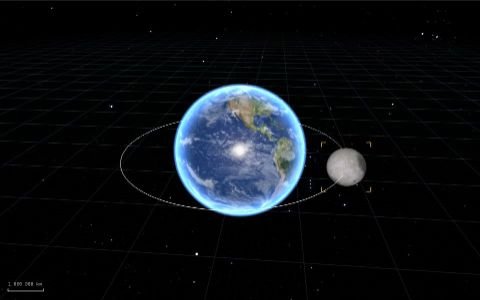
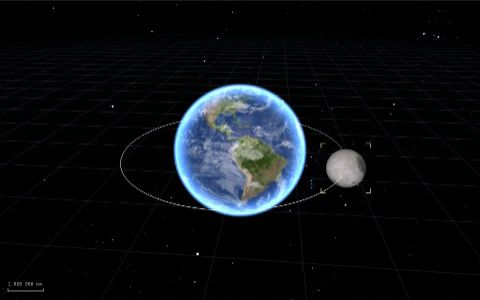
Spread Mars's moons; open two-body lessons on their pair
Illustrative scale multiplies a compact system's moon distances past the
clearance (Mars 40x), so Deimos reads outside Phobos. The Earth-Moon and
Phobos lessons opened 0.2 AU away; they now frame their pair (SPEC A155,
B60, T132). Lesson stills regenerated.

diff --git a/docs/browser-tests/learning.spec.ts b/docs/browser-tests/learning.spec.ts
@@ -178,3 +178,15 @@ test('Learn links open telescope views of the simulated sky (SPEC A148)', async 
   await expect(page.getByRole('switch', { name: 'From Earth' })).toHaveAttribute('aria-checked', 'true');
   await expect(page.locator('[data-runtime-controls]')).toContainText('Selected body: Moon');
 });
+
+test('two-body lessons open framed on their pair, not 0.2 AU away (SPEC B60)', async ({ page }) => {
+  for (const [lesson, body] of [['earth-moon', 'Moon'], ['phobos', 'Phobos']] as const) {
+    await page.goto(`${base}?lesson=${lesson}`);
+    await expect(page.locator('[data-lesson-strip]')).toBeVisible({ timeout: 30000 });
+    await expect(page.locator('[data-runtime-controls]')).toContainText(`Selected body: ${body}`);
+    // The camera readout gives its distance in render units (1 AU is 10):
+    // the default camera sits about 20 away, a framed pair under 2.
+    await expect.poll(async () => Number(((await page.locator('[data-runtime-camera]').textContent()) ?? '').split('·')[1]?.trim().split(' ')[0]))
+      .toBeLessThan(2);
+  }
+});

diff --git a/tests/test_renderer.c b/tests/test_renderer.c
@@ -522,6 +522,31 @@ static void check_moon_order_survives(const SolarSystem *system, BodyId planet_i
     assert(checked >= at_least);
 }
 
+/* Mars's moons orbit within seven Mars radii, a pair the enlarged planet
+ * dwarfs: illustrative scale spreads them (A155) so Deimos reads clearly
+ * outside Phobos, by at least a fifth of Mars's drawn radius. */
+static void test_illustrative_martian_moons_read_as_two_orbits(void)
+{
+    SolarSystem system = solar_system_create_current();
+    int mars = -1, phobos = -1, deimos = -1;
+    for (size_t i = 0; i < system.body_count; ++i) {
+        if (system.bodies[i].id == BODY_ID_MARS) mars = (int)i;
+        if (system.bodies[i].id == BODY_ID_PHOBOS) phobos = (int)i;
+        if (system.bodies[i].id == BODY_ID_DEIMOS) deimos = (int)i;
+    }
+    assert(mars >= 0 && phobos >= 0 && deimos >= 0);
+    Vec3d center = renderer_body_position(&system, (size_t)mars, RENDER_SCALE_ILLUSTRATIVE);
+    double p = vec3d_length(vec3d_sub(renderer_body_position(&system, (size_t)phobos, RENDER_SCALE_ILLUSTRATIVE), center));
+    double d = vec3d_length(vec3d_sub(renderer_body_position(&system, (size_t)deimos, RENDER_SCALE_ILLUSTRATIVE), center));
+    assert(d - p > 0.2 * renderer_body_radius(&system.bodies[mars], RENDER_SCALE_ILLUSTRATIVE));
+    /* Real scale is untouched (double-precision conversion; the scalar
+     * meters_to_render_units returns a float). */
+    Vec3d real = vec3d_sub(renderer_body_position(&system, (size_t)phobos, RENDER_SCALE_REAL),
+        renderer_body_position(&system, (size_t)mars, RENDER_SCALE_REAL));
+    double true_distance = vec3d_length(meters_vec_to_render_vec3d(vec3d_sub(system.bodies[phobos].position_m, system.bodies[mars].position_m)));
+    assert(fabs(vec3d_length(real) - true_distance) < 1e-9 * true_distance);
+}
+
 static void test_illustrative_moons_keep_their_order_outward(void)
 {
     SolarSystem system = solar_system_create_current();
@@ -617,6 +642,7 @@ int main(void)
     test_charon_casts_no_shadow_on_pluto_in_2026();
     test_illustrative_saturn_moons_stay_outside_the_drawn_rings();
     test_illustrative_moons_keep_their_order_outward();
+    test_illustrative_martian_moons_read_as_two_orbits();
     test_tidally_locked_maps_face_their_parent();
     test_cached_trail_points_match_uncached_exactly();
     test_moving_sun_history_preserves_parent_relative_frames();

diff --git a/src/render/renderer.c b/src/render/renderer.c
@@ -157,7 +157,10 @@ static Vec3d visible_satellite_position(const Body *body, const Body *parent, Ve
      * clamping put all moons inside the enlarged planet on one shell, so
      * Europa could be drawn inside Io. Adding the clearance keeps their order
      * and their true spacing; for distant moons it is a small offset. */
-    return vec3d_add(parent_position, vec3d_scale(relative_position, (current_distance + required_distance) / current_distance));
+    /* A compact system the enlarged planet dwarfs spreads its moons further
+     * (A155), still in order. */
+    double spread = render_moon_spread_factor(parent->id);
+    return vec3d_add(parent_position, vec3d_scale(relative_position, (current_distance * spread + required_distance) / current_distance));
 }
 
 static Vec3d body_position_raw(const SolarSystem *system, size_t body_index, RenderScaleMode mode)

diff --git a/src/render/scene_style.h b/src/render/scene_style.h
@@ -393,6 +393,12 @@ bool render_constellation_segment(size_t index, Vec3d *a, Vec3d *b);
 /* The view from Earth (A149): a moon of the target is labelled however small
  * its disc, once it is `parent_separation_pixels` clear of the planet. */
 bool render_sky_moon_wants_label(bool known_radius, double parent_separation_pixels);
+/* Illustrative spreading of a compact moon system (A155): the factor a moon's
+ * true distance is multiplied by, past its enlarged parent's clearance. Mars
+ * (Phobos and Deimos within seven Mars radii) gets 40, so the pair reads as
+ * two orbits; others 1 (Earth's Moon keeps its own eightfold rule).
+ * Presentation only. */
+double render_moon_spread_factor(BodyId parent);
 bool render_body_wants_label(BodyKind kind, bool selected, bool known_radius, double radius_pixels,
     double parent_separation_pixels);
 

diff --git a/src/main.c b/src/main.c
@@ -585,8 +585,10 @@ static bool start_app_lesson(SolarApp *state, LessonPreset lesson, double factor
         frame_selected_system(state, true);
     }
     /* Two-body lessons open on the whole pair: framing the small partner alone
-     * hides the body it orbits. */
-    if (lesson == LESSON_ENCOUNTER || lesson == LESSON_PLUTO_CHARON || lesson == LESSON_DART)
+     * hides the body it orbits, and the default camera, placed for AU-scale
+     * scenes, left Earth-Moon and Mars-Phobos as specks 0.2 AU away (B60). */
+    if (lesson == LESSON_ENCOUNTER || lesson == LESSON_PLUTO_CHARON || lesson == LESSON_DART
+        || lesson == LESSON_EARTH_MOON || lesson == LESSON_PHOBOS)
         frame_selected_system(state, true);
     if (lesson == LESSON_RESONANCE) {
         state->session.selected_body_index = 0;

diff --git a/tests/test_scene_style.c b/tests/test_scene_style.c
@@ -214,6 +214,8 @@ static void test_labels_name_planets_and_zoomed_in_moons(void)
     /* Through the telescope (A149) the target's moons are named however
      * small, once they stand clear of the planet; unknown radii stay
      * unnamed markers. */
+    assert(render_moon_spread_factor(BODY_ID_MARS) == 40.0);
+    assert(render_moon_spread_factor(BODY_ID_JUPITER) == 1.0);
     assert(render_sky_moon_wants_label(true, RENDER_LABEL_MIN_SEPARATION_PIXELS + 1));
     assert(!render_sky_moon_wants_label(true, RENDER_LABEL_MIN_SEPARATION_PIXELS - 1));
     assert(!render_sky_moon_wants_label(false, 500));

diff --git a/src/render/scene_style.c b/src/render/scene_style.c
@@ -353,6 +353,11 @@ bool render_clip_segment_outside_sphere(Vec3d *a, Vec3d *b, Vec3d center, double
     return true;
 }
 
+double render_moon_spread_factor(BodyId parent)
+{
+    return parent == BODY_ID_MARS ? 40.0 : 1.0;
+}
+
 bool render_sky_moon_wants_label(bool known_radius, double parent_separation_pixels)
 {
     return known_radius && parent_separation_pixels >= RENDER_LABEL_MIN_SEPARATION_PIXELS;

diff --git a/SPEC.md b/SPEC.md
@@ -507,6 +507,7 @@ A151|Readable sky on every screen: the view from Earth's field spans the narrowe
 A152|Trails stay paths after long runs: a trail drawn about its parent (moons in the Parent frame; planets about the Sun) shows its last 1.5 orbits from the two-body period in SI state (`render_trail_first_point`), with the fade over that window; after months at speed a hundred loops of Io were a solid band. A trail sampled fewer than 12 times per orbit (the store's spacing doubles as it compacts) draws a polygon, so it gives way to the orbit guide (`render_trail_too_coarse`). Unbound orbits and Sun-relative moon spirals keep their whole history. Presentation only; the stored history is unchanged|`render_trail_first_point` and `render_trail_too_coarse` tests; screenshots of Jupiter after 176 days at 15 d/s and of a fresh Earth view; browser journeys
 A153|A Today, Date or linked run hands back the speed preset it found when it arrives, is paused or the scene resets (a run started mid-run keeps the first one's), so Resume continues at the reader's own pace: left at 15 d/s, the 300-body Saturn family ran at 9 fps on the throttled phone profile. Measured with this change: rendering with long trails holds 60 fps at about 10.1 ms main-thread per frame, level with main|session test (arrival, a pause mid-run and a second run each restore preset 1); Today journey sees 1 d/s on arrival; throttled Saturn-family measurement after an 84-day run
 A154|The view from Earth's canvas captions are also text for screen readers: C reports the target and its disc, elongation and lit fraction with the lab state, and a visually hidden paragraph reads "From Earth: Jupiter, disc 38.4 arcseconds, 102.9 degrees from the Sun, 99% lit; field 9 arcminutes." It is empty when the view is off, so the instrument's word budget is unaffected|`skyReadout` tests (planet, Moon, the Sun without elongation or phase, view off); journey reads the sentence in the view and finds it empty after leaving
+A155|Compact moon systems read as orbits: illustrative scale draws a moon at its parent's clearance plus its true distance times `render_moon_spread_factor` (Mars 40, others 1; Earth's Moon keeps its eightfold rule), so Deimos reads clearly outside Phobos instead of both sharing the enlarged planet's edge. Real scale is untouched; order and spacing ratios hold. Two-body lessons (Earth-Moon, Phobos) now open framed on their pair (B60)|renderer test (Deimos at least a fifth of Mars's drawn radius outside Phobos; real scale exact); spread-factor test; lesson framing journey; Mars and Phobos-lesson screenshots; lesson stills regenerated
 A110|Look: the sky backdrop uses a squared contrast curve (no JPEG grain between stars); the Sun's disc centre runs toward white with an orange limb and a second, wide glare layer; bodies with air get limb darkening and a warm dusk band at the terminator (long air paths scatter blue away); lit colours roll off through a soft shoulder above 0.8 instead of clipping; the reference grid is about half as bright|`make test-native-shaders`, screenshots
 
 Result: all scenes hold 60 fps in desktop Chrome; on the Pixel 7 profile at 4x CPU throttle the main scene, Jupiter family and Saturn family hold 60 fps (the Saturn family fell to 44 fps with full-detail guides; 10 px chords, half detail for faint guides and skipping the spreading test for distant orbits restored it; A135 later spread every guide with its clearance computed once per orbit, measured level with main at 52–60 fps on the 300-body Saturn family).
@@ -646,6 +647,7 @@ T128|x|sky readability on phones|A151
 T129|x|trail window about the parent|A152
 T130|x|runs restore the speed they found|A153
 T131|x|sky captions for screen readers|A154
+T132|x|Mars moons spread; two-body lesson framing|A155
 
 Audit remediation verification, 2026-10-06: delivered through PRs #20, #21, #22, #24, #25 (round 1), #26 (main CI/analytics blocker found by round 2) and #27 (round 2), each rebase-merged after the required Build/CodeQL checks passed and every review thread was resolved. Production Pages served 81eb308 after #26 with CSP, Astro generator marker, generated sitemap and no robots.txt verified on the live site. Locally, round 2 passed `make clean && make test-sanitize`, `make && make test test-build test-cli test-validators`, catalog/command/epoch/Jovian/small-body checks, a fresh raylib WASM build with native/WASM replay of every example, `npm ci`/`npm audit`/37 Node tests/`astro check`/build, route checks, and 17/17 sandboxed Chrome journeys for both analytics-free and `PUBLIC_GA_ID` builds. The second audit's Medium findings (main CI red, experiment Earth-centre start, debug-info WASM, duplicate SPEC IDs, PR-only workflow docs, invisible catalog download) are closed. Remaining Low/Info items are recorded rather than changed: Jonathan later chose Renovate over Dependabot (A63) and asked for every non-main branch to be deleted; CI stays Linux-only and the browser lane stays on Ubuntu 22.04 per R13; browser specs are type-checked by Playwright, not `astro check` (adding `@types/node` was deferred); GA consent policy remains V17; the pre-existing desktop atlas Vesta/Uranus label overlap, Saturn's illustrative ring tilt and literal Jupiter–Neptune masses (V6 scopes GM-derived masses to Sun–Mars) are unchanged.
 
@@ -719,3 +721,4 @@ B56|2026-10-21|the Keys sheet and README promised "drag: orbit" but neither C no
 B57|2026-10-21|DESIGN.md says reduced motion stops camera auto-rotation, but only CSS transitions honoured it|C reads `prefers-reduced-motion` at start: no auto-rotation, framing cuts (A112)
 B58|2026-10-21|a review of the A107–A127 stack found: Backspace "go back" swallowed by the GLFW key filter registered first; lifting fingers one at a time after a pinch read as a tap; a ?body= deep link's history entry overwritten with ?body=sun before its body was selected; Galilean moons drawn inside Jupiter's drawn gossamer rings (clearance used the main-ring extent); nearly transparent rings treated as hiding planets (duplicate edge markers); Left from the Sun went to Mercury; a missing ring strip drew a beige disc; orbit guides ignored the scale morph; hover re-picked every frame|listener order and depth-tagged history entries (Backspace never leaves the site); gestures end only when every finger is up; the deep link's entry waits for its body; clearance uses the outermost drawn ring a moon lies beyond; only Saturn's rings occlude; Left wraps to the last child; no strip, no faint rings; guides blend like bodies during a morph; hover re-picks on mouse moves and every fourth frame. Bugbot on #56/#59 added: the camera's look-at point eased toward an already-easing body during a scale morph (now tracks it directly), `V` pressed again mid-morph snapped (now reverses from the current blend at 1 − t), and Thebe flipped between ring clearances each orbit (a moon is beyond the drawn rings only past 1.1 × their outer edge). Parent-relative default trails cost a second trail sample per moon point; kept, measured at 59–60 fps on the throttled Saturn family
 B59|2026-10-22|illustrative scale clamped every moon inside an enlarged planet onto one clearance shell, so the Galilean moons shared a ring and Europa was drawn inside Io|moons are pushed out by the clearance, not onto it (A135)
+B60|2026-10-22|the Earth-Moon and Phobos lessons opened with the default camera placed for AU-scale scenes, so the pair was a speck 0.2 AU away until Frame system|both join the two-body lessons that open framed on their pair (A155)

diff --git a/AGENTS.md b/AGENTS.md
@@ -106,7 +106,7 @@ solar-system-simulator/
 - `make test` checks generated satellite data offline. Only explicit `python3 tools/satellite_catalog.py --refresh [--system NAME]` fetches new source data for the Jovian, Saturnian, Uranian, Neptunian and Plutonian snapshots (JPL satellite tables) and the Didymos and Patroclus snapshots (Horizons DART reconstruction; Horizons asteroid-satellite solution JPL#82, whose elements come from a state vector about the pair's GM). Review inventory/frame/epoch changes before accepting them; duplicate JPL rows need an explicit ephemeris preference (Uranus's Puck keeps URA184).
 - Trails are bounded app-owned histories. They start at a 300-second sample cadence, double both historical and future spacing at compaction, and keep a live endpoint. Do not reintroduce repeated early-history erosion or claim unlimited trail resolution. Drawn about their parent, trails show their last 1.5 orbits and give way to the orbit guide below 12 samples per orbit (A152); the stored history is unchanged.
 - Moving stars must record synchronized history too: parent-relative trails in the barycentric lesson subtract the Sun's historical position. Only fixed stars omit history.
-- Illustrative render mode enlarges bodies and separates close moons visually without changing simulation data: a moon is drawn at its true distance plus the clearance, never clamped onto it, so moons keep their outward order (A135).
+- Illustrative render mode enlarges bodies and separates close moons visually without changing simulation data: a moon is drawn at its true distance plus the clearance, never clamped onto it, so moons keep their outward order (A135); compact systems the enlarged planet dwarfs (Mars) multiply that distance by `render_moon_spread_factor` (A155).
 - Saturn's rings are renderer-only textured geometry in Saturn's IAU equatorial plane. Their outer extent affects camera framing, but Saturn's SI radius and gravity remain unchanged.
 - The cinematic renderer (SPEC A64–A68) is presentation only: one lighting shader pair (GLSL 330 native / GLSL 100 WebGL) in `src/render/render_resources.c`, raylib-free style math with tests in `src/render/scene_style.*` (texture inventory, atmospheres, IAU WGCCRE 2015 spin orientation, meshes, grid/trail/glow fades), and attributed CC BY 4.0 maps in `assets/textures/` decoded by the vendored, pinned `src/render/third_party/stb_image.h`. Never let lighting, textures or spin feed SI state, CSV or the inspector. Change rendering in screenshot-verified steps (the June beauty pass was rolled back, B5) and measure frame rate against the live site before shipping; per-vertex work in WebAssembly is expensive (avoid `pow` in hot loops), every mesh draw costs dozens of WebGL calls, and trails dominate CPU time: keep `RenderFrameCache` (per-frame parents/positions), screen-adaptive trail detail (`render_trail_stride_for_extent`, 4 px per point, 12-point floor), the view-pyramid trail cull (`render_frustum_outcode`), the precomputed unknown-radius wire-marker table and the staggered per-trail extent cache in `draw_trails` (re-measured every eighth frame; it took the 300-body Saturn scene from 37 to 58 fps on a throttled phone). Profile with a `--profiling-funcs` web build and Chrome's CPU profiler under 4× throttling; on a busy host compare main-thread CPU per frame from a Chrome trace (thread time) instead of fps. Never call `SetTargetFPS` in the web build: `requestAnimationFrame` paces it, and raylib's limiter busy-waits under Emscripten. Page state reports run every fourth frame. Translucent layers (trails, clouds, rings, halos, glow) draw after all opaque bodies without depth writes. Labels are screen-space, decluttered by priority and hidden when a nearer large body covers them; the label font is an OFL subset embedded by `tools/embed_binary.py`.
 - `src/sim/orbit.c` owns all conic propagation, including standalone WASM previews. Catalog experiments use epoch-aligned Sun/eight planets plus at most 16 selected objects; reset retains their owned names and initial states. Never mix these source-epoch experiments with the perihelion demonstration.
